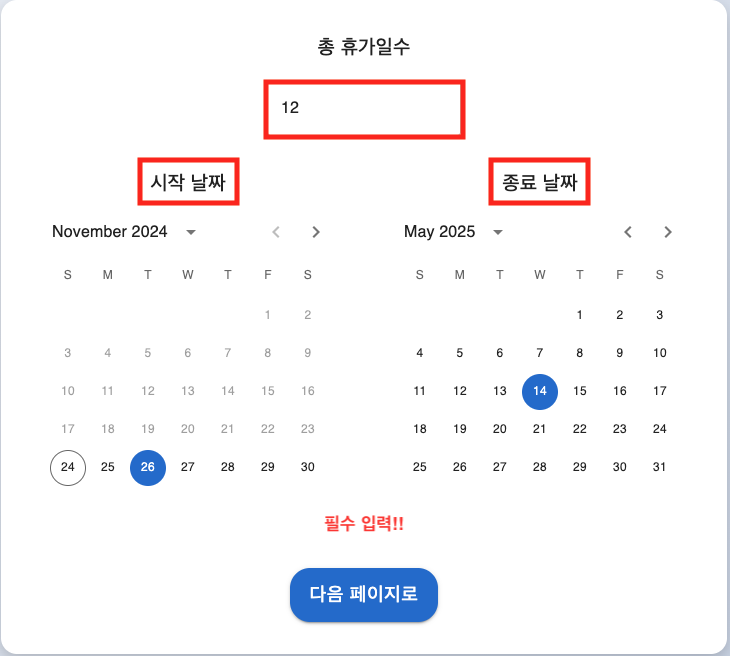
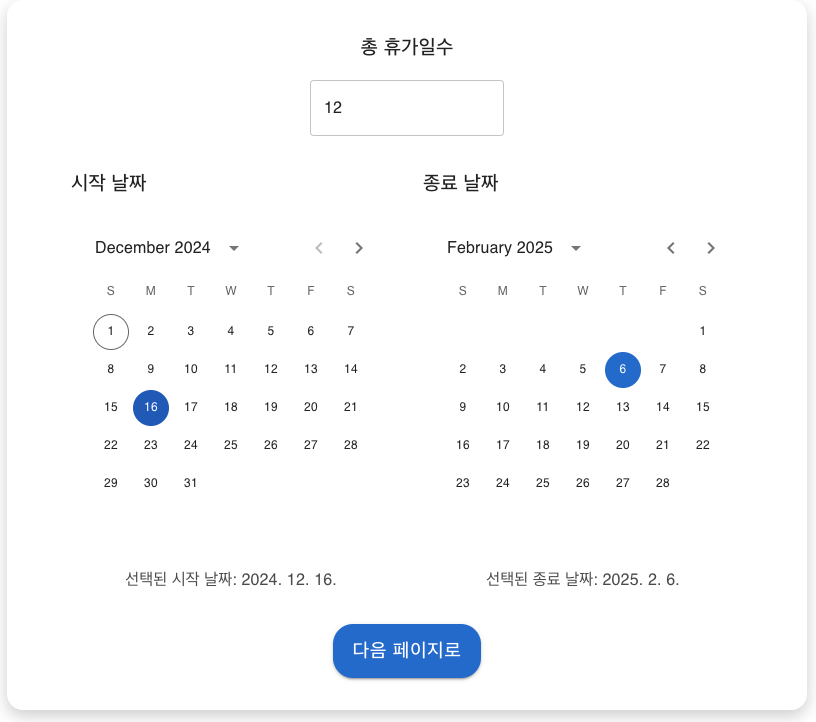
StartForm 추가 및 Modal 삭제

diff --git a/src/component/page/StartForm.jsx b/src/component/page/StartForm.jsx
@@ -1,0 +1,84 @@
+// StartForm.jsx
+import React, { useRef } from 'react';
+import { useNavigate } from 'react-router-dom';
+import ScrollSection from '../list/ScrollSection'; // 경로 수정
+
+const sections = [
+  {
+    title: '나만의 휴가 일정 계획하기',
+    description: '자신만의 휴가를 입력하고 확인하세요',
+    images: ['/images/1.gif', '/images/2.gif'],
+  },
+  {
+    title: '휴가 정보를 입력하세요',
+    description: '총 휴가일수, 시작과 종료 날짜를 입력하세요',
+    image: '/images/1.png',
+  },
+  {
+    title: '휴가를 지정할 날짜를 선택하세요',
+    description: '날짜를 클릭해서 휴가를 사용하세요',
+    image: '/images/2.png',
+  },
+  {
+    title: '지정된 휴가 기간을 확인해보세요',
+    description: '선택한 연휴 기간을 모아서 보여드려요',
+    image: '/images/3.png',
+  },
+  {
+    title: '추천된 여행지를 확인해보세요',
+    description: '국내/해외 추천 여행지를 보여드립니다',
+    image: '/images/4.png',
+  },
+];
+
+const StartForm = () => {
+  const scrollRef = useRef(null);
+  const navigate = useNavigate();
+
+  const handleNextClick = () => {
+    navigate('/input');
+  };
+
+  return (
+    <div style={{
+      height: '100vh',
+      overflow: 'hidden',
+      scrollSnapType: 'y mandatory',
+      display: 'flex',
+    }}>
+      <div ref={scrollRef} style={{ flex: 1, overflowY: 'scroll', scrollSnapType: 'y mandatory' }}>
+        {sections.map((section, index) => (
+          <ScrollSection
+            key={index}
+            title={section.title}
+            description={section.description}
+            images={section.images || [section.image]} // images가 배열이어야 함
+            isLastSection={index === sections.length - 1}
+          />
+        ))}
+      </div>
+      {/* 고정 버튼 */}
+      <button
+        style={{
+          position: 'fixed',
+          bottom: '50px',
+          right: '150px',
+          padding: '10px 30px',
+          fontSize: '18px',
+          backgroundColor: '#1478CD',
+          color: '#fff',
+          border: 'none',
+          borderRadius: '5px',
+          cursor: 'pointer',
+          fontFamily: 'Noto Sans, sans-serif',
+          fontWeight: 'bold',
+        }}
+        onClick={handleNextClick}
+      >
+        휴가 입력하러 가기
+      </button>
+    </div>
+  );
+};
+
+export default StartForm;

diff --git a/src/component/list/ScrollSection.jsx b/src/component/list/ScrollSection.jsx
@@ -1,0 +1,72 @@
+// ScrollSection.jsx
+import React from 'react';
+import { motion } from 'framer-motion';
+import { useInView } from 'react-intersection-observer';
+import ImageList from './ImageList' ;
+import ScrollHint from './ScrollHint'; // Import ScrollHint
+
+const ScrollSection = ({ title, description, images, isLastSection }) => {
+  const { ref, inView } = useInView({
+    threshold: 0.9,
+  });
+
+  return (
+    <div
+      ref={ref}
+      style={{
+        height: '100vh',
+        scrollSnapAlign: 'start',
+        scrollSnapStop: 'always',
+        display: 'flex',
+        justifyContent: 'center',
+        alignItems: 'center',
+        flexDirection: 'column',
+      }}
+    >
+      {title === '나만의 휴가 일정 계획하기' && (
+        <div style={{
+          position: 'absolute',
+          top: '20px',
+          left: '20px',
+          zIndex: 1,
+        }}>
+          <img src="/images/tree.png" alt="Tree" style={{
+            width: '50px',
+            height: 'auto',
+          }} />
+        </div>
+      )}
+      <motion.span
+        initial={{ opacity: 0.1 }}
+        animate={inView ? { opacity: 1 } : { opacity: 0.1 }}
+        transition={{ duration: 0.8 }}
+        style={{
+          fontSize: '3rem',
+          fontWeight: 'bold',
+          color: '#333',
+          marginBottom: '20px',
+        }}
+      >
+        {title}
+      </motion.span>
+      <motion.p
+        initial={{ opacity: 0.1 }}
+        animate={inView ? { opacity: 1 } : { opacity: 0.1 }}
+        transition={{ duration: 0.8 }}
+        style={{
+          fontSize: '1.5rem',
+          color: '#666',
+          textAlign: 'center',
+          maxWidth: '600px',
+          marginBottom: '20px',
+        }}
+      >
+        {description}
+      </motion.p>
+      <ImageList images={images} title={title} /> {/* Use ImageList */}
+      <ScrollHint isLastSection={isLastSection} /> {/* Use ScrollHint */}
+    </div>
+  );
+};
+
+export default ScrollSection;

diff --git a/src/App.js b/src/App.js
@@ -1,27 +1,12 @@
-import React, { useEffect,useState } from "react";
-import { BrowserRouter, Routes, Route} from "react-router-dom";
+// App.js
+import React, { useEffect, useState } from "react";
+import { BrowserRouter, Routes, Route } from "react-router-dom";
 import InputForm from './component/page/InputForm';
 import SelectForm from './component/page/SelectForm';  // SelectForm 컴포넌트 임포트
 import ResultForm from './component/page/ResultForm';
 import AdForm from './component/page/AdForm';
+import StartForm from './component/page/StartForm'; // StartForm 컴포넌트 임포트
 import { saveToSessionStorage, loadFromSessionStorage } from "./component/list/storage";
-/*
-const MainTitleText = styled.p`
-    font-size: 24px;
-    font-weight: bold;
-    text-align: center;
-`;
-
-function MainTitle() {
-    const location = useLocation(); // 현재 라우트 확인
-    const hiddenRoutes = ["/result", "/ad"]; // MainTitleText를 숨길 경로
-
-    // 현재 경로가 hiddenRoutes에 포함되지 않으면 렌더링
-    if (!hiddenRoutes.includes(location.pathname)) {
-        return <MainTitleText>휴가 정보를 입력해주세요</MainTitleText>;
-    }
-    return null; // 숨길 경우 null 반환
-}*/
 
 function App() {
     const [totalDays, setTotalDays] = useState(loadFromSessionStorage("totalDays", ''));
@@ -36,12 +21,12 @@ function App() {
         saveToSessionStorage("holidays", holidays);
     }, [totalDays, dateRange, selectedDays, holidays]);
 
-
     return (
         <BrowserRouter>
             <Routes>
+                <Route path="/" element={<StartForm />} /> {/* StartForm을 기본 경로에 추가 */}
                 <Route
-                    path="/"
+                    path="/input"
                     element={
                         <InputForm
                             totalDays={totalDays}

diff --git a/src/component/list/ImageList.jsx b/src/component/list/ImageList.jsx
@@ -1,0 +1,48 @@
+// ImageList.jsx
+import React from 'react';
+import { motion } from 'framer-motion';
+import { useInView } from 'react-intersection-observer';
+
+const ImageList = ({ images, title }) => {
+  const { ref, inView } = useInView({
+    threshold: 0.9,
+  });
+
+  return (
+    <div ref={ref} style={{ display: 'flex', justifyContent: 'center' }}>
+      {images.map((image, index) => {
+        let width, maxWidth;
+        // 조건에 따라 이미지 크기 조정
+        if (image.includes('.gif')) {
+          width = '40%';
+          maxWidth = '300px';
+        } else if (image.includes('2.png') || image.includes('3.png') || image.includes('4.png')) {
+          width = '120%';  
+          maxWidth = '1200px'; 
+        } else {
+          width = '80%';
+          maxWidth = '750px';
+        }
+
+        return (
+          <motion.img
+            key={index}
+            src={image}
+            alt={title}
+            initial={{ opacity: 0.1 }}
+            animate={inView ? { opacity: 1 } : { opacity: 0.1 }}
+            transition={{ duration: 0.8 }}
+            style={{
+              width: width,
+              maxWidth: maxWidth,
+              borderRadius: '20px',
+              margin: '0 25px',
+            }}
+          />
+        );
+      })}
+    </div>
+  );
+};
+
+export default ImageList;

diff --git a/src/component/list/ScrollHint.jsx b/src/component/list/ScrollHint.jsx
@@ -1,0 +1,50 @@
+// ScrollHint.jsx
+import React from 'react';
+
+const ScrollHint = ({ isLastSection }) => {
+  return (
+    <div style={{
+      marginTop: '80px',
+      textAlign: 'center',
+    }}>
+      {!isLastSection ? (
+        <>
+          <div style={{
+            fontSize: '24px',
+            fontWeight: 'bold',
+            marginBottom: '5px',
+            color: '#333',
+            animation: 'blink 1.3s infinite'
+          }}>
+            아래로 스크롤
+          </div>
+          <div style={{
+            fontSize: '24px',
+            marginTop: '0px',
+            animation: 'blink 1.3s infinite'
+          }}>
+            ↓
+          </div>
+          <style jsx>{`
+            @keyframes blink {
+              0% { opacity: 1; }
+              50% { opacity: 0; }
+              100% { opacity: 1; }
+            }
+          `}</style>
+        </>
+      ) : (
+        <div style={{
+          fontSize: '24px',
+          fontWeight: 'bold',
+          color: '#333',
+          marginBottom: '20px',
+        }}>
+          휴가 입력하러 가기 버튼 클릭!
+        </div>
+      )}
+    </div>
+  );
+};
+
+export default ScrollHint;

diff --git a/src/component/page/InputForm.jsx b/src/component/page/InputForm.jsx
@@ -3,13 +3,11 @@ import { useNavigate } from "react-router-dom";
 import { Button, Alert, Paper } from "@mui/material";
 import PickDateItem from "../list/PickDate";
 import TotalDate from "../list/TotalDate";
-import WelcomeModal from "../list/WelcomeModal"; // 새로 추가된 컴포넌트 경로
 
 
 function InputForm({ totalDays, setTotalDays, dateRange, setDateRange }) {
     const [isButtonDisabled, setIsButtonDisabled] = useState(true);
     const [errorMessage, setErrorMessage] = useState("");
-    const [isModalOpen, setIsModalOpen] = useState(true); // 모달 상태
     const navigate = useNavigate();
 
     sessionStorage.removeItem('selectedDays');
@@ -63,9 +61,6 @@ function InputForm({ totalDays, setTotalDays, dateRange, setDateRange }) {
 
     return (
         <>
-            {/* 모달 컴포넌트 */}
-            <WelcomeModal open={isModalOpen} onClose={() => setIsModalOpen(false)} />
-
             {/* 본 페이지 */}
             <Paper
                 elevation={6}
